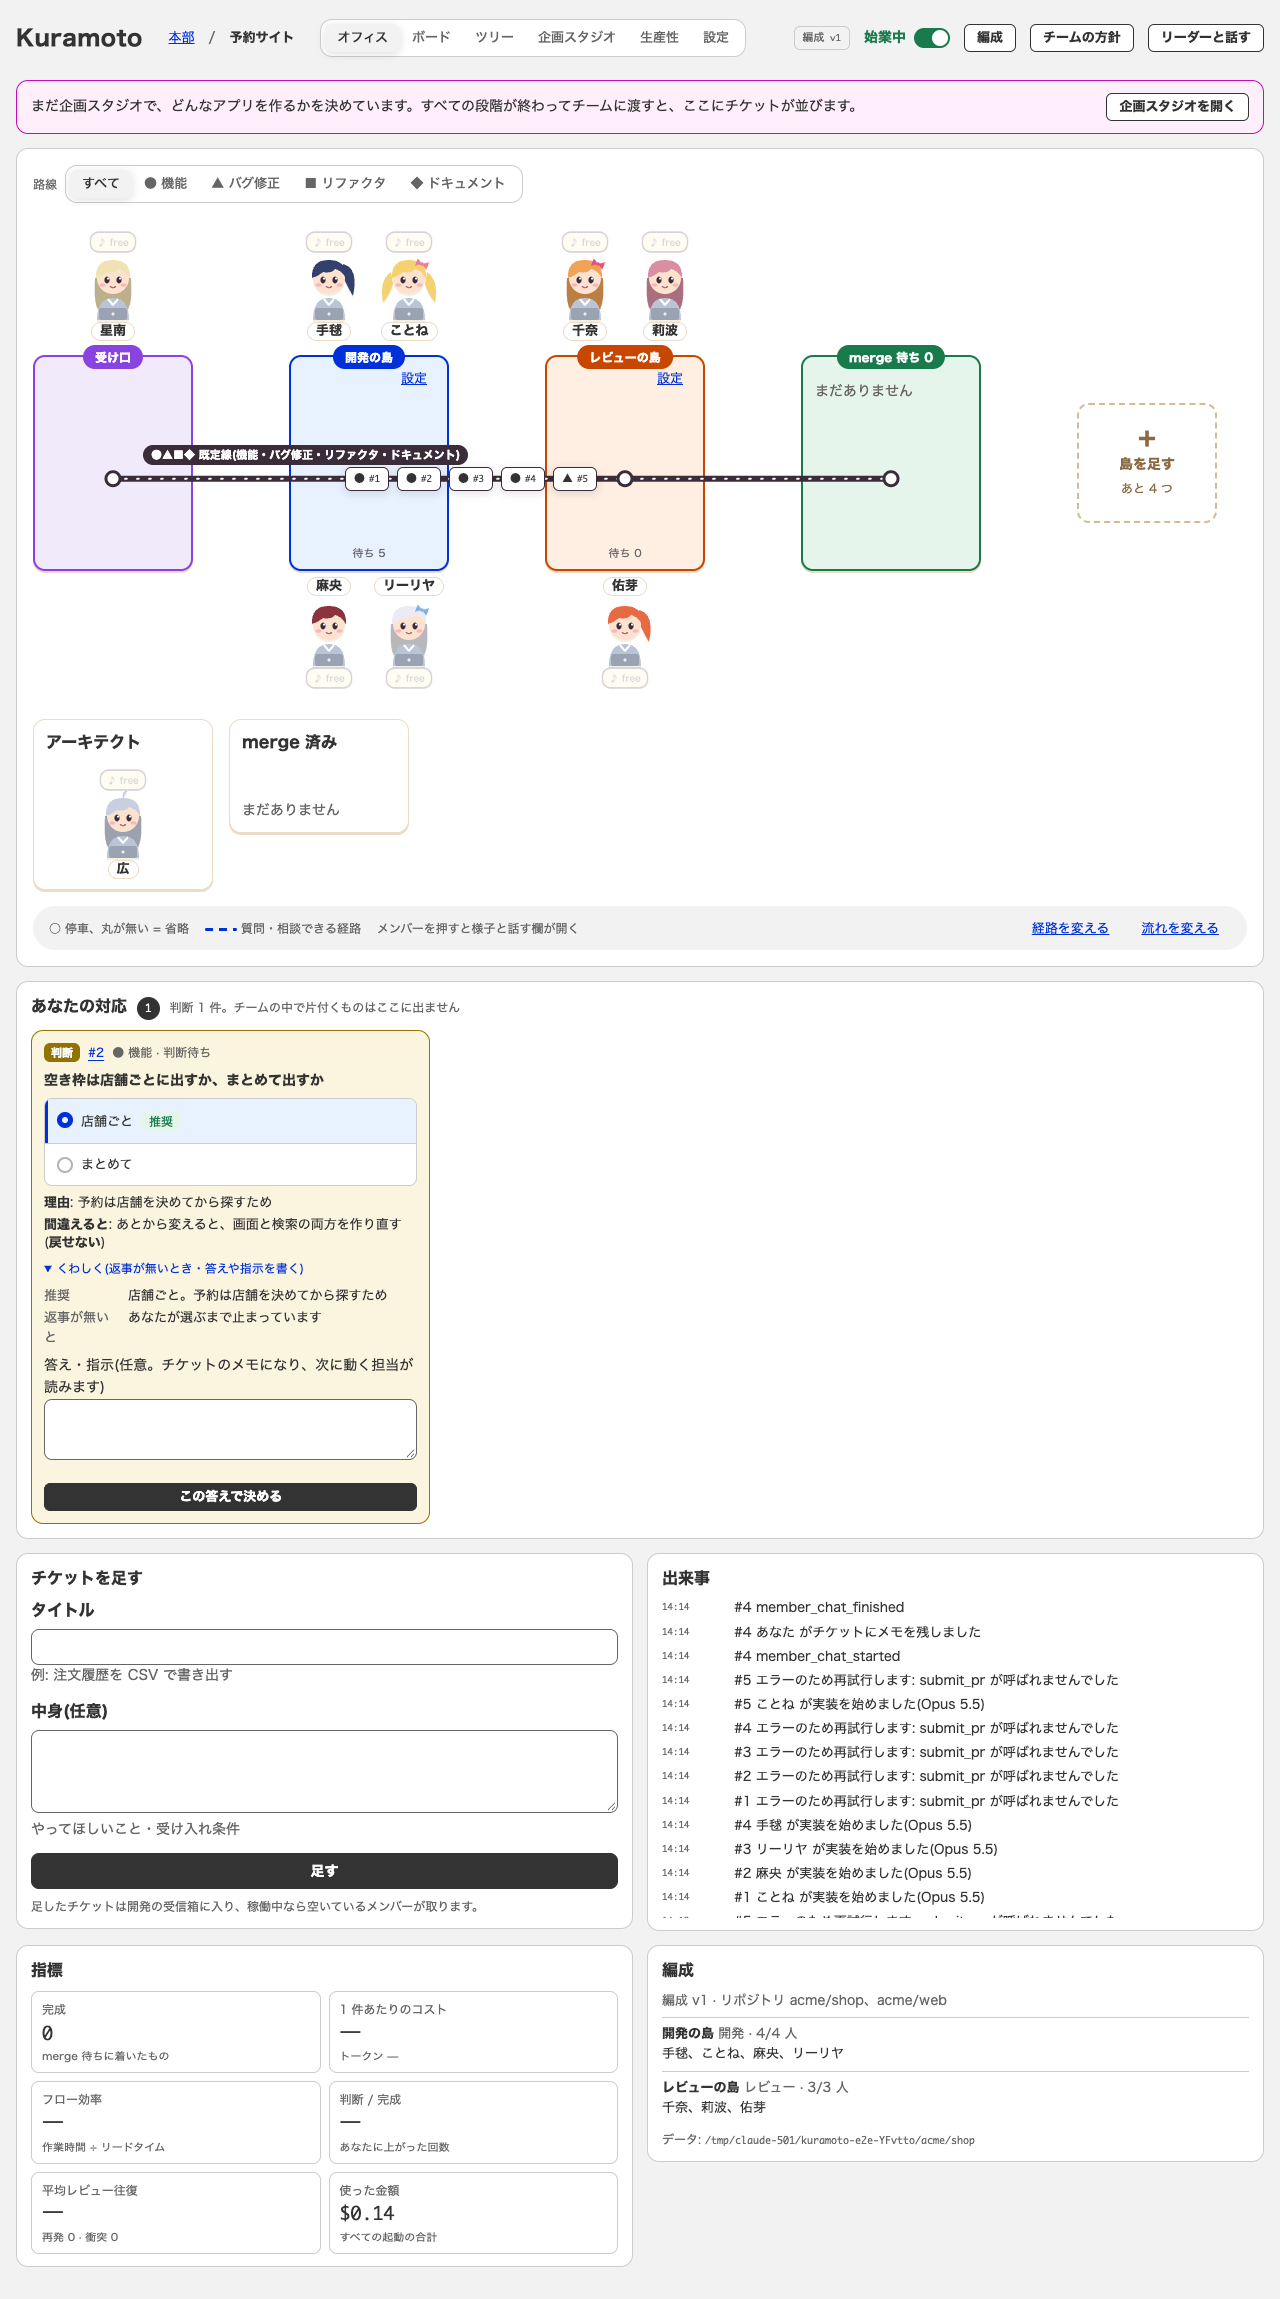
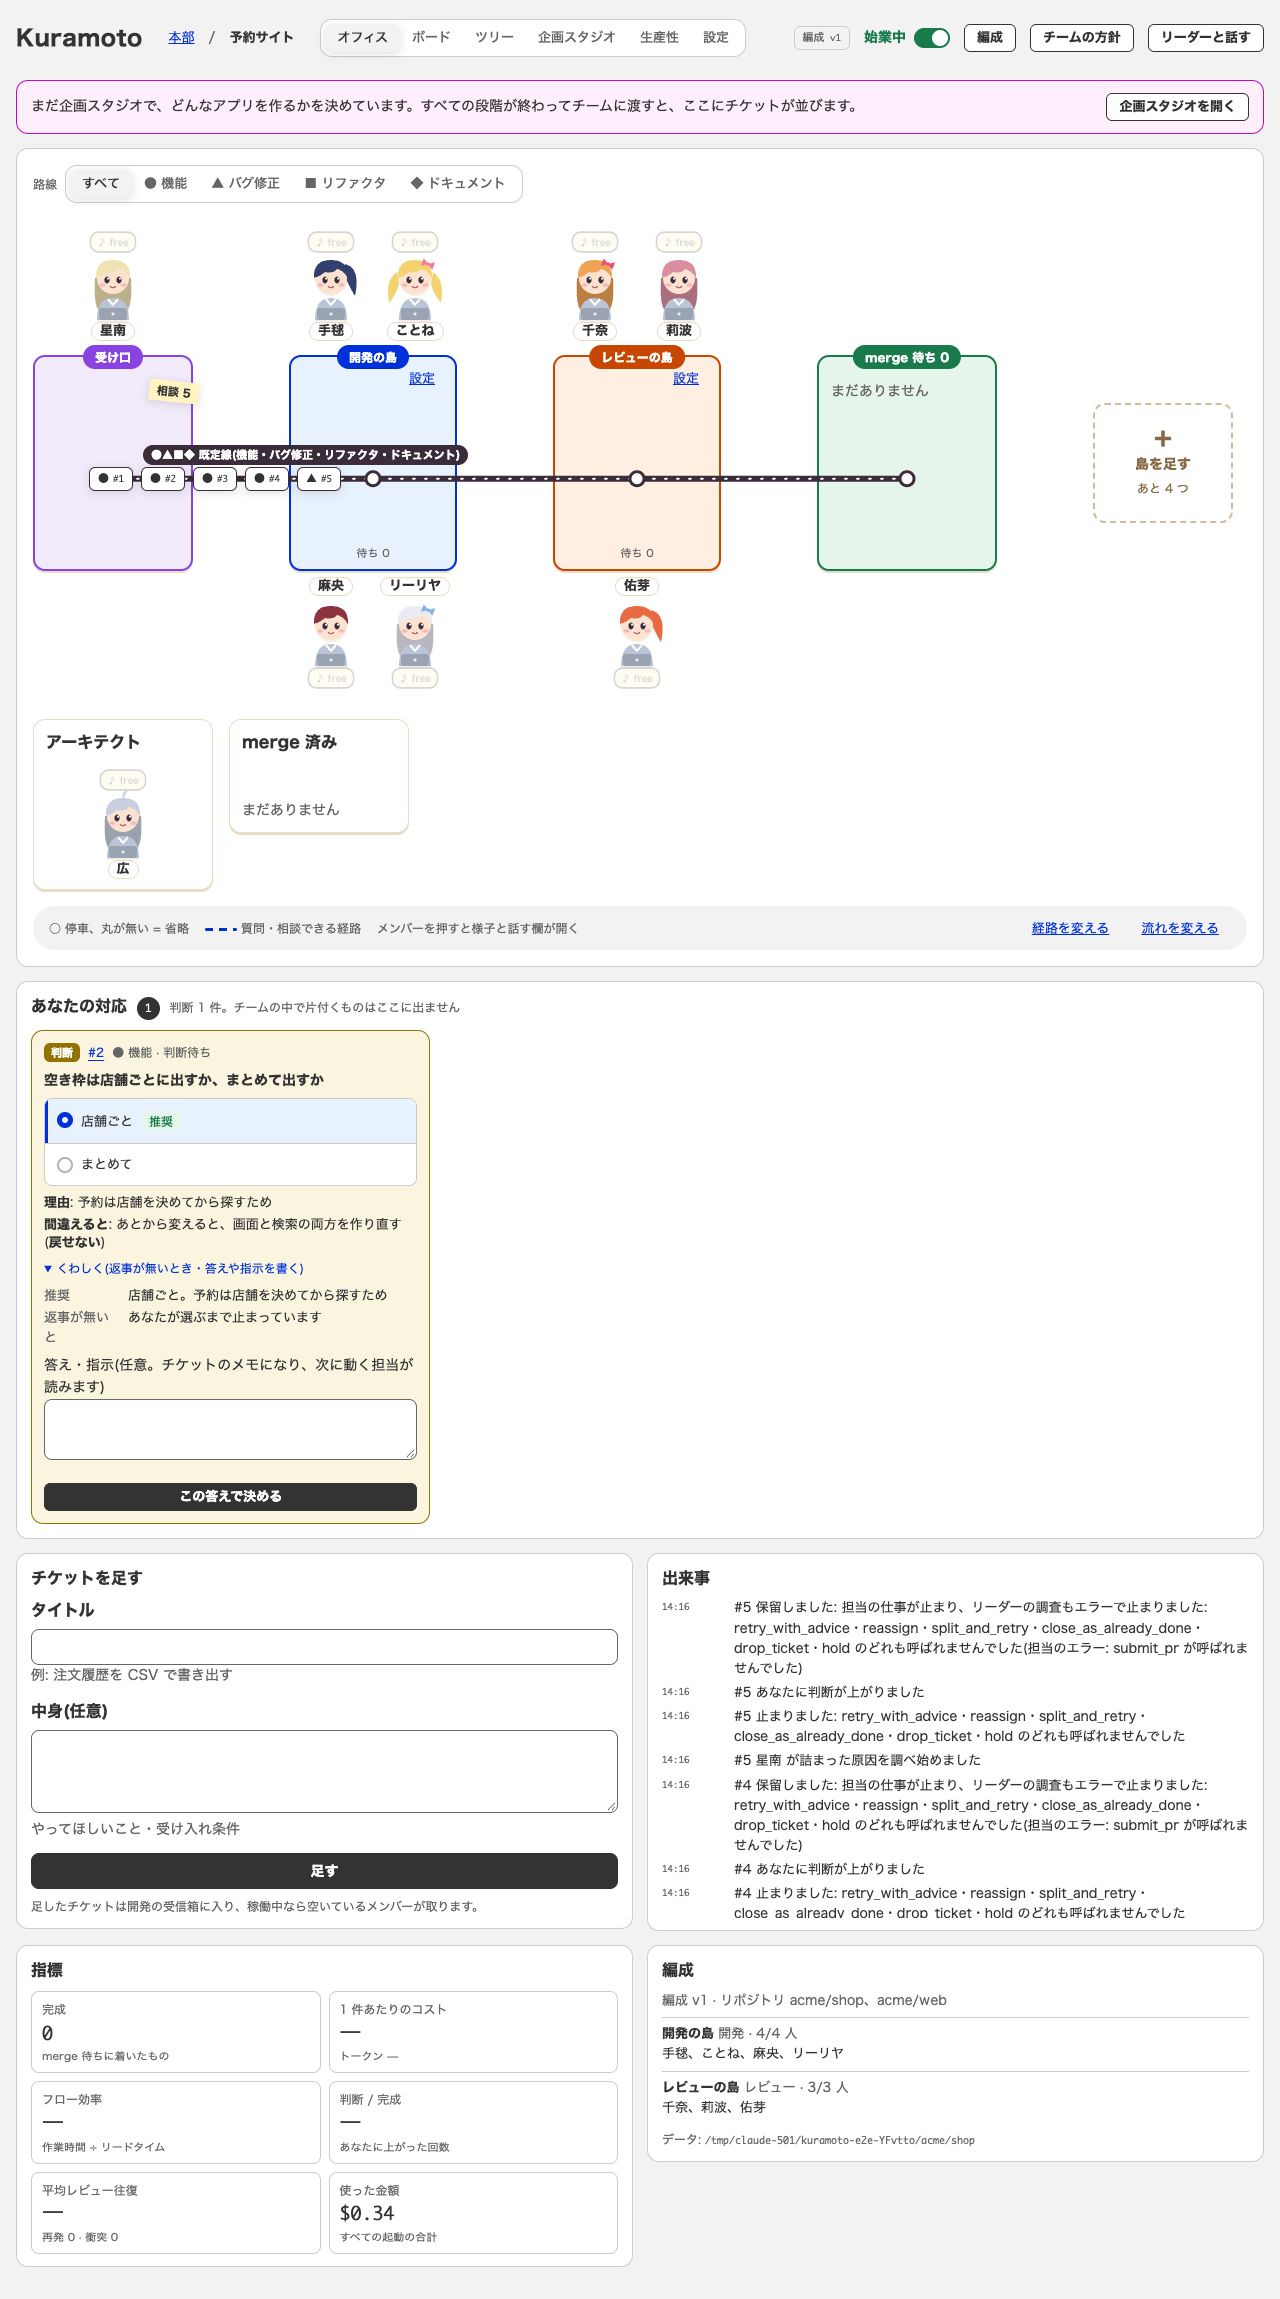
[fix] 島の箱の幅を 1 段の人数に合わせて広げ、床の JSX の順を見た目に揃える(#109 レビュー対応)
- 席は箱の外へ出るので、箱を 160px 固定にすると 3 人以上の段が隣の島に重なる。Island が 1 段の人数(--per-row)を渡し、箱は max(160px, 人数 × 84px) にする
- order での並べ替えをやめ、オフィス(床)の見方のときだけ JSX で床を あなたの対応 より先に置く(Tab・読み上げの順と見た目を同じにする)
- 席が箱の幅に収まり、島どうしの席が重ならないことを e2e に足す。幅の仕組みのユニットテストを足す
- 画像の README にずれの一覧を足す

diff --git a/ui/src/style.css b/ui/src/style.css
@@ -1355,9 +1355,7 @@ body { background: var(--bg); }
 
 /* ---- チケット 109: パソコンのオフィスを試作(office)に合わせる。スマホ(700px 以下)は変えない ---- */
 @media (min-width: 701px) {
-  /* 床は共通ヘッダーのすぐ下(試作は 1 画面が「ヘッダー+床」)。あなたの対応・チケットを足す・指標などは、その下に続ける。判断待ちの数は、受け口の付箋(相談 N)でも見える */
-  .pview > .studionotice { order: -2; }
-  .pview > .officepanel:has(.officefloor) { order: -1; }
+  /* 床は共通ヘッダーのすぐ下(試作は 1 画面が「ヘッダー+床」)。あなたの対応・チケットを足す・指標などは、その下に続く(並びは Project.tsx の JSX の順)。判断待ちの数は、受け口の付箋(相談 N)でも見える */
   /* 床の外の「オフィス」の枠と見出しは出さず、床の枠だけにする(試作は枠が 1 重)。見出しは読み上げの名前(aria-label)で残る */
   .officepanel:has(.officefloor) { background: none; border: 0; padding: 0; }
   .officepanel:has(.officefloor) > .viewhead { display: none; }
@@ -1370,7 +1368,8 @@ body { background: var(--bg); }
      路線は箱の中を通り(e2e: 路線は駅の中)、メンバー・吹き出しは路線・札・ラベルに重ならない(#78・#91) */
   .officefloor .of-islands { gap: calc(var(--sp-5) * 4); padding: 152px 0 148px; }
   .officefloor .of-side { margin-top: 0; }
-  .officefloor .of-st > .of-island { flex: 0 0 160px; min-width: 160px; }
+  /* 箱の幅は 160px を下限に、1 段に並ぶ人数(--per-row。Island が渡す)ぶんの席(76px + すき間)に合わせて広げる。人数の多い島でも、席が箱の外へはみ出して隣の島に重ならない */
+  .officefloor .of-st > .of-island { flex: 0 0 max(160px, calc(var(--per-row, 2) * 84px)); min-width: 160px; }
   .officefloor .of-st > .of-desk { flex: 0 0 160px; }
   .officefloor .of-st > .of-shelf { flex: 0 0 180px; }
   .officefloor .of-island > .of-seats { position: absolute; left: 0; right: 0; z-index: 4; min-height: 0; padding: 0; }

diff --git a/ui/src/Project.tsx b/ui/src/Project.tsx
@@ -40,11 +40,11 @@ export function ProjectPage({ id, drawer, closeDrawer, guard }: { id: number; dr
 }
 
 function Office({ id, data }: { id: number; data: ProjectView }) {
-  const { tab } = usePhoneNav();
+  const { tab, view } = usePhoneNav();
   return (
     <section className="pview" aria-label="プロジェクト" data-phone-tab={tab}>
       {!data.project.handed && (
-        <div className="panel studionotice" style={{ borderColor: "var(--design)", background: "var(--design-soft)" }}>
+        <div className="panel" style={{ borderColor: "var(--design)", background: "var(--design-soft)" }}>
           <div style={{ display: "flex", gap: 10, alignItems: "center", flexWrap: "wrap" }}>
             <span>まだ企画スタジオで、どんなアプリを作るかを決めています。すべての段階が終わってチームに渡すと、ここにチケットが並びます。</span>
             <Btn kind="outline" size="sm" style={{ marginLeft: "auto" }} onClick={() => go(`#/p/${id}/studio`)}>
@@ -53,8 +53,18 @@ function Office({ id, data }: { id: number; data: ProjectView }) {
           </div>
         </div>
       )}
-      <Inbox d={data} />
-      <FloorOrBoard id={id} data={data} />
+      {/* パソコンでは、オフィスの床を共通ヘッダーのすぐ下に置く(試作は「ヘッダー+床」の 1 画面)。ボード・ツリーと、スマホ(タブで出し分ける)は、これまでどおり あなたの対応 が先 */}
+      {view === "floor" ? (
+        <>
+          <FloorOrBoard id={id} data={data} />
+          <Inbox d={data} />
+        </>
+      ) : (
+        <>
+          <Inbox d={data} />
+          <FloorOrBoard id={id} data={data} />
+        </>
+      )}
       <div className="two-col">
         <NewTicket id={id} />
         <section className="panel" aria-label="出来事">

diff --git a/src/office-island-width.test.ts b/src/office-island-width.test.ts
@@ -1,0 +1,26 @@
+import { readFileSync } from "node:fs";
+import { describe, expect, it } from "vitest";
+
+// パソコンのオフィスは、メンバーを島の箱の上下に立たせる(試作 office)。席は箱の外へ出る(position: absolute)ので、
+// 箱の幅が 1 段の人数に合っていないと、人数の多い島(最大 10 人 = 1 段 5 人)で席が隣の島に重なる(#78・#91 の「重ならない」)。
+// ブラウザの描画は e2e で見るので、ここでは「幅を人数から決める仕組み」が切れていないことをソースで確かめる。
+const ui = new URL("../ui/src/", import.meta.url).pathname;
+const css = readFileSync(`${ui}style.css`, "utf8");
+const office = readFileSync(`${ui}Office.tsx`, "utf8");
+
+describe("パソコンのオフィス: 島の箱の幅は 1 段の人数に合わせる", () => {
+  it("Island は 1 段の人数を --per-row で渡す(上の段 = 席の半分、切り上げ)", () => {
+    expect(office).toContain("const top = seats.slice(0, Math.ceil(u.max / 2));");
+    expect(office).toMatch(/"--per-row": top\.length/);
+  });
+
+  it("パソコン幅の島の箱は、160px を下限に --per-row × 84px(席 76px + すき間)まで広がる。固定の 160px にしない", () => {
+    const desktop = css.slice(css.indexOf("チケット 109"));
+    expect(desktop).toMatch(/\.of-st > \.of-island \{[^}]*flex: 0 0 max\(160px, calc\(var\(--per-row, 2\) \* 84px\)\)/);
+    expect(desktop).not.toMatch(/\.of-st > \.of-island \{[^}]*flex: 0 0 160px/);
+  });
+
+  it("席の幅(76px)に対して 84px の刻みで足りる", () => {
+    expect(css).toMatch(/\.officefloor \.of-seat \{ width: 76px; \}/);
+  });
+});

diff --git a/ui/src/Office.tsx b/ui/src/Office.tsx
@@ -312,7 +312,7 @@ function Island({ u, running, onEdit, onOpen, onMember }: { u: OfficeView["units
   // すぐ取れる仕事が無く、順番待ちだけがあるときは、freeの理由を出す(ツールチップ・読み上げ)
   const idleText = !u.waiting.length && u.queued.length ? `free・順番待ち(${queuedSummary(u.queued)})` : undefined;
   return (
-    <section className={`of-island of-tone-${u.roleKeys[0] ?? "dev"} ${u.budget.exhausted ? "of-island-broke" : ""}`} data-loc={`unit:${u.id}`} aria-label={`島 ${u.name}`}>
+    <section className={`of-island of-tone-${u.roleKeys[0] ?? "dev"} ${u.budget.exhausted ? "of-island-broke" : ""}`} data-loc={`unit:${u.id}`} aria-label={`島 ${u.name}`} style={{ "--per-row": top.length } as React.CSSProperties}>
       <header>
         <div className="of-head-row">
           <h3>
